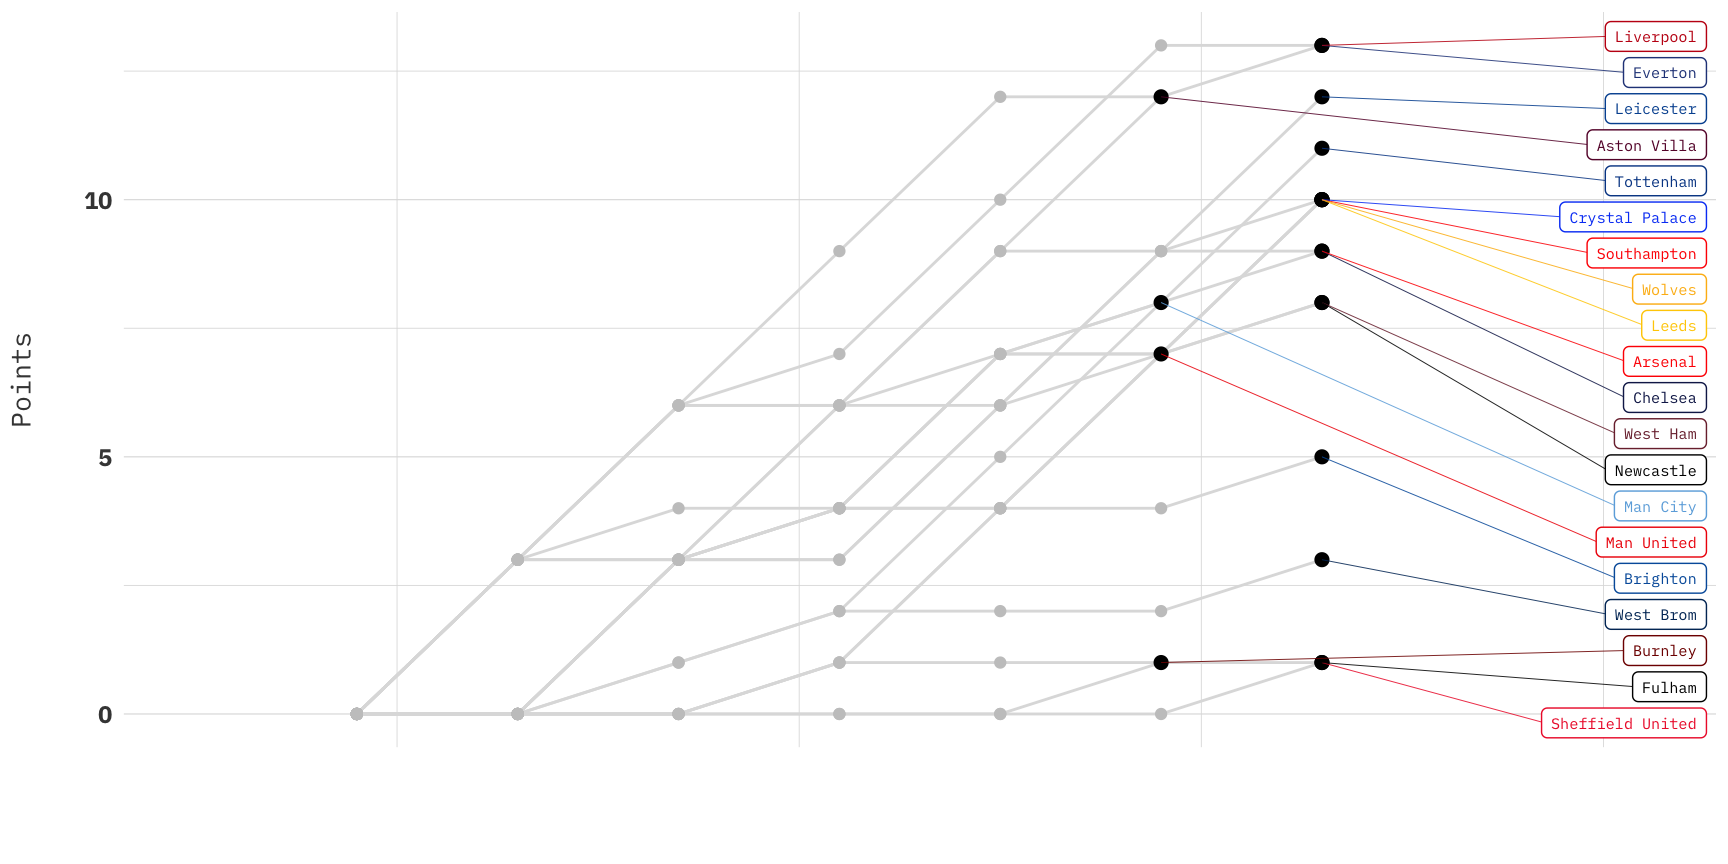
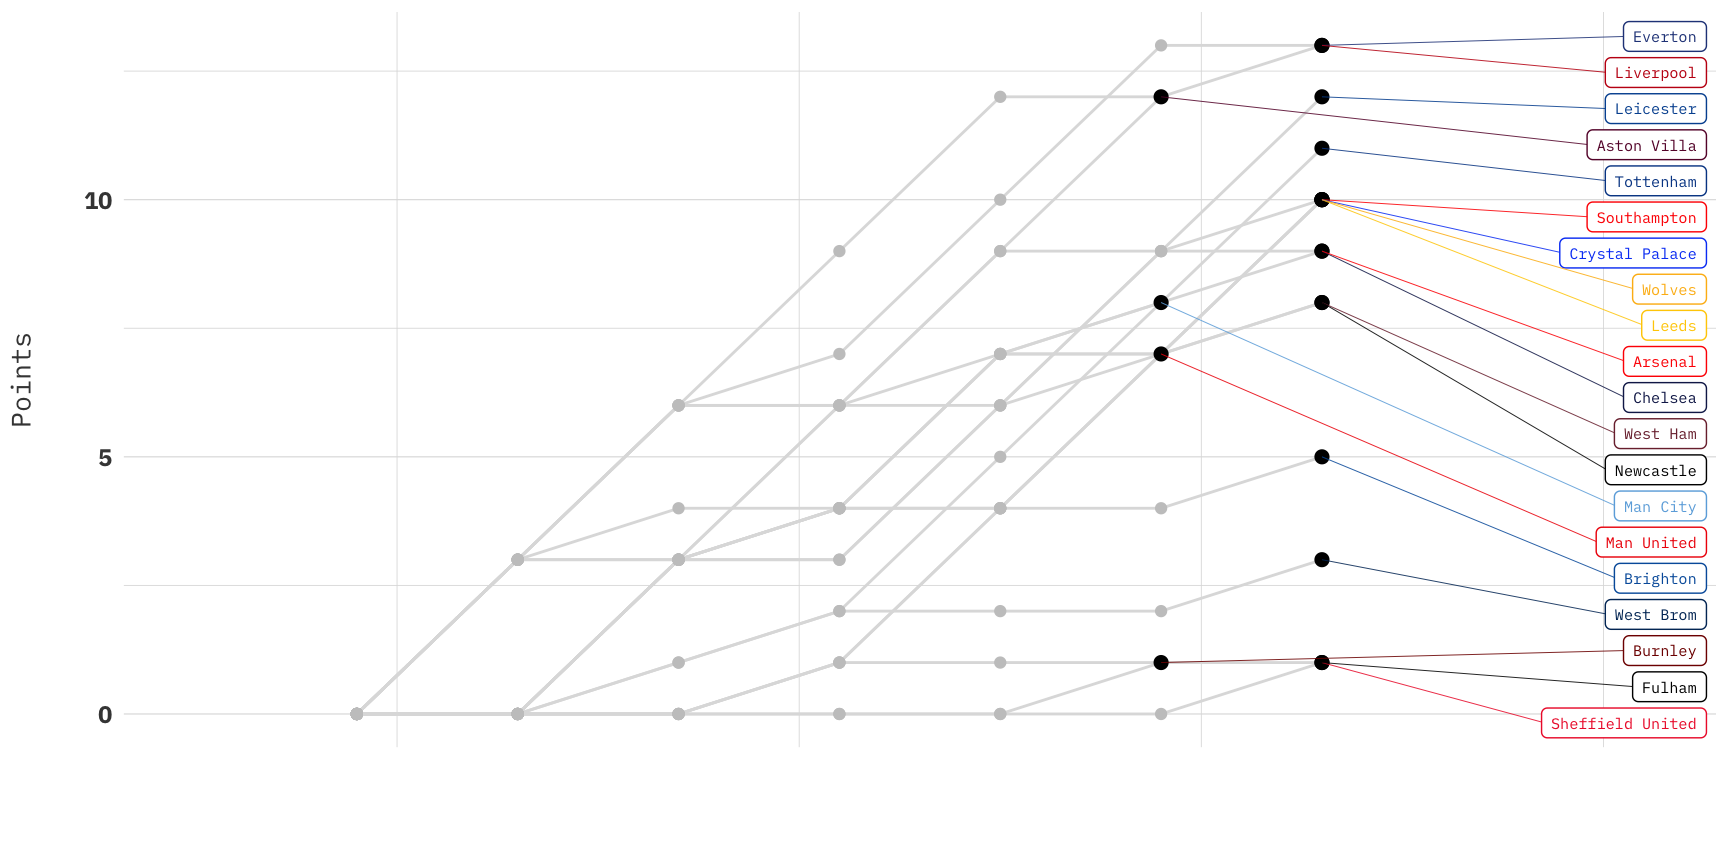
epl update

diff --git a/content/EPL.html b/content/EPL.html
@@ -1122,4 +1122,4 @@ This section is reserved for other charts and tables investigating the Premier L
 </div>
 <p><br></p>
 <div id="htmlwidget-1" style="width:100%;height:500px;" class="echarts4r html-widget"></div>
-<script type="application/json" data-for="htmlwidget-1">{"x":{"theme":"custom","tl":false,"draw":true,"renderer":"canvas","events":[{"data":{"type":"highlight","seriesName":["2020"]}}],"buttons":[],"opts":{"yAxis":[{"show":true}],"xAxis":[{"type":"value"}],"legend":{"data":["2015","2016","2017","2018","2019","2020"],"show":true,"type":"plain","right":0},"series":[{"data":[{"value":[1,22]},{"value":[2,56]},{"value":[3,84]},{"value":[4,114]},{"value":[5,133]},{"value":[6,155]},{"value":[7,189]},{"value":[8,236]},{"value":[9,263]},{"value":[10,274]},{"value":[11,297]},{"value":[12,326]},{"value":[13,356]},{"value":[14,396]},{"value":[15,421]},{"value":[16,452]},{"value":[17,497]},{"value":[18,532]},{"value":[19,562]},{"value":[20,586]},{"value":[21,609]},{"value":[22,631]},{"value":[23,655]},{"value":[24,678]},{"value":[25,719]},{"value":[26,751]},{"value":[27,783]},{"value":[28,807]},{"value":[29,838]},{"value":[30,854]},{"value":[31,884]},{"value":[32,914]},{"value":[33,934]},{"value":[34,956]},{"value":[35,984]},{"value":[36,1026]}],"yAxisIndex":0,"xAxisIndex":0,"name":"2015","type":"line","coordinateSystem":"cartesian2d","smooth":true},{"data":[{"value":[1,36]},{"value":[2,59]},{"value":[3,87]},{"value":[4,95]},{"value":[5,142]},{"value":[6,163]},{"value":[7,169]},{"value":[8,183]},{"value":[9,217]},{"value":[10,238]},{"value":[11,260]},{"value":[12,269]},{"value":[13,284]},{"value":[14,336]},{"value":[15,372]},{"value":[16,386]},{"value":[17,404]},{"value":[18,436]},{"value":[19,461]},{"value":[20,492]},{"value":[21,529]},{"value":[22,557]},{"value":[23,579]},{"value":[24,601]},{"value":[25,635]},{"value":[26,671]},{"value":[27,705]},{"value":[28,725]},{"value":[29,752]},{"value":[30,771]},{"value":[31,799]},{"value":[32,835]},{"value":[33,859]},{"value":[34,890]},{"value":[35,927]},{"value":[36,984]},{"value":[37,1007]},{"value":[38,1038]},{"value":[39,1064]}],"yAxisIndex":0,"xAxisIndex":0,"name":"2016","type":"line","coordinateSystem":"cartesian2d","smooth":true},{"data":[{"value":[1,31]},{"value":[2,59]},{"value":[3,86]},{"value":[4,87]},{"value":[5,141]},{"value":[6,170]},{"value":[7,173]},{"value":[8,199]},{"value":[9,221]},{"value":[10,253]},{"value":[11,268]},{"value":[12,297]},{"value":[13,326]},{"value":[14,353]},{"value":[15,378]},{"value":[16,399]},{"value":[17,420]},{"value":[18,463]},{"value":[19,488]},{"value":[20,510]},{"value":[21,526]},{"value":[22,536]},{"value":[23,560]},{"value":[24,581]},{"value":[25,611]},{"value":[26,631]},{"value":[27,636]},{"value":[28,656]},{"value":[29,687]},{"value":[30,717]},{"value":[31,735]},{"value":[32,746]},{"value":[33,772]},{"value":[34,791]},{"value":[35,854]},{"value":[36,879]},{"value":[37,925]},{"value":[38,967]},{"value":[39,1016]},{"value":[40,1018]}],"yAxisIndex":0,"xAxisIndex":0,"name":"2017","type":"line","coordinateSystem":"cartesian2d","smooth":true},{"data":[{"value":[1,29]},{"value":[2,49]},{"value":[3,82]},{"value":[4,136]},{"value":[5,169]},{"value":[6,193]},{"value":[7,245]},{"value":[8,278]},{"value":[9,297]},{"value":[10,319]},{"value":[11,351]},{"value":[12,379]},{"value":[13,409]},{"value":[14,442]},{"value":[15,467]},{"value":[16,503]},{"value":[17,528]},{"value":[18,561]},{"value":[19,589]},{"value":[20,619]},{"value":[21,648]},{"value":[22,677]},{"value":[23,699]},{"value":[24,728]},{"value":[25,750]},{"value":[26,779]},{"value":[27,813]},{"value":[28,833]},{"value":[29,857]},{"value":[30,890]},{"value":[31,947]},{"value":[32,979]},{"value":[33,1013]},{"value":[34,1072]}],"yAxisIndex":0,"xAxisIndex":0,"name":"2018","type":"line","coordinateSystem":"cartesian2d","smooth":true},{"data":[{"value":[1,25]},{"value":[2,52]},{"value":[3,92]},{"value":[4,105]},{"value":[5,132]},{"value":[6,141]},{"value":[7,156]},{"value":[8,186]},{"value":[9,206]},{"value":[10,225]},{"value":[11,255]},{"value":[12,281]},{"value":[13,342]},{"value":[14,393]},{"value":[15,432]},{"value":[16,475]},{"value":[17,502]},{"value":[18,527]},{"value":[19,557]},{"value":[20,588]},{"value":[21,620]},{"value":[22,651]},{"value":[23,680]},{"value":[24,705]},{"value":[25,723]},{"value":[26,761]},{"value":[27,787]},{"value":[28,815]},{"value":[29,848]},{"value":[30,879]},{"value":[31,944]},{"value":[32,963]},{"value":[33,981]},{"value":[34,1034]}],"yAxisIndex":0,"xAxisIndex":0,"name":"2019","type":"line","coordinateSystem":"cartesian2d","smooth":true},{"data":[{"value":[1,23]},{"value":[2,67]},{"value":[3,103]},{"value":[4,144]},{"value":[5,172]},{"value":[6,191]}],"yAxisIndex":0,"xAxisIndex":0,"name":"2020","type":"line","coordinateSystem":"cartesian2d","smooth":true,"markPoint":{"data":[{"name":"Max","type":"max"}]}}],"title":[{"text":"Goals by Week of the Premier League"}],"tooltip":{"trigger":"axis"},"dataZoom":[[]],"toolbox":{"feature":{"dataZoom":[]}},"textStyle":{"fontFamily":"IBM Plex Mono"}},"dispose":true,"theme2":true,"customTheme":"{\"color\":[\"#f7dc05\",\n            \"#3d98d3\",\n            \"#ec0b88\",\n            \"#5e35b1\",\n            \"#f9791e\",\n            \"#3dd378\",\n            \"#787464\",\n            \"#c6c6c6\",\n            \"#baa9d0\",\n            \"#009688\"]}","theme_name":"custom"},"evals":[],"jsHooks":[]}</script>
+<script type="application/json" data-for="htmlwidget-1">{"x":{"theme":"custom","tl":false,"draw":true,"renderer":"canvas","events":[{"data":{"type":"highlight","seriesName":["2020"]}},{"data":{"type":"dataZoom","dataZoomIndex":0,"start":0,"end":50}}],"buttons":[],"opts":{"yAxis":[{"show":true}],"xAxis":[{"type":"value"}],"legend":{"data":["2015","2016","2017","2018","2019","2020"],"show":true,"type":"plain","right":0},"series":[{"data":[{"value":[1,22]},{"value":[2,56]},{"value":[3,84]},{"value":[4,114]},{"value":[5,133]},{"value":[6,155]},{"value":[7,189]},{"value":[8,236]},{"value":[9,263]},{"value":[10,274]},{"value":[11,297]},{"value":[12,326]},{"value":[13,356]},{"value":[14,396]},{"value":[15,421]},{"value":[16,452]},{"value":[17,497]},{"value":[18,532]},{"value":[19,562]},{"value":[20,586]},{"value":[21,609]},{"value":[22,631]},{"value":[23,655]},{"value":[24,678]},{"value":[25,719]},{"value":[26,751]},{"value":[27,783]},{"value":[28,807]},{"value":[29,838]},{"value":[30,854]},{"value":[31,884]},{"value":[32,914]},{"value":[33,934]},{"value":[34,956]},{"value":[35,984]},{"value":[36,1026]}],"yAxisIndex":0,"xAxisIndex":0,"name":"2015","type":"line","coordinateSystem":"cartesian2d","smooth":true},{"data":[{"value":[1,36]},{"value":[2,59]},{"value":[3,87]},{"value":[4,95]},{"value":[5,142]},{"value":[6,163]},{"value":[7,169]},{"value":[8,183]},{"value":[9,217]},{"value":[10,238]},{"value":[11,260]},{"value":[12,269]},{"value":[13,284]},{"value":[14,336]},{"value":[15,372]},{"value":[16,386]},{"value":[17,404]},{"value":[18,436]},{"value":[19,461]},{"value":[20,492]},{"value":[21,529]},{"value":[22,557]},{"value":[23,579]},{"value":[24,601]},{"value":[25,635]},{"value":[26,671]},{"value":[27,705]},{"value":[28,725]},{"value":[29,752]},{"value":[30,771]},{"value":[31,799]},{"value":[32,835]},{"value":[33,859]},{"value":[34,890]},{"value":[35,927]},{"value":[36,984]},{"value":[37,1007]},{"value":[38,1038]},{"value":[39,1064]}],"yAxisIndex":0,"xAxisIndex":0,"name":"2016","type":"line","coordinateSystem":"cartesian2d","smooth":true},{"data":[{"value":[1,31]},{"value":[2,59]},{"value":[3,86]},{"value":[4,87]},{"value":[5,141]},{"value":[6,170]},{"value":[7,173]},{"value":[8,199]},{"value":[9,221]},{"value":[10,253]},{"value":[11,268]},{"value":[12,297]},{"value":[13,326]},{"value":[14,353]},{"value":[15,378]},{"value":[16,399]},{"value":[17,420]},{"value":[18,463]},{"value":[19,488]},{"value":[20,510]},{"value":[21,526]},{"value":[22,536]},{"value":[23,560]},{"value":[24,581]},{"value":[25,611]},{"value":[26,631]},{"value":[27,636]},{"value":[28,656]},{"value":[29,687]},{"value":[30,717]},{"value":[31,735]},{"value":[32,746]},{"value":[33,772]},{"value":[34,791]},{"value":[35,854]},{"value":[36,879]},{"value":[37,925]},{"value":[38,967]},{"value":[39,1016]},{"value":[40,1018]}],"yAxisIndex":0,"xAxisIndex":0,"name":"2017","type":"line","coordinateSystem":"cartesian2d","smooth":true},{"data":[{"value":[1,29]},{"value":[2,49]},{"value":[3,82]},{"value":[4,136]},{"value":[5,169]},{"value":[6,193]},{"value":[7,245]},{"value":[8,278]},{"value":[9,297]},{"value":[10,319]},{"value":[11,351]},{"value":[12,379]},{"value":[13,409]},{"value":[14,442]},{"value":[15,467]},{"value":[16,503]},{"value":[17,528]},{"value":[18,561]},{"value":[19,589]},{"value":[20,619]},{"value":[21,648]},{"value":[22,677]},{"value":[23,699]},{"value":[24,728]},{"value":[25,750]},{"value":[26,779]},{"value":[27,813]},{"value":[28,833]},{"value":[29,857]},{"value":[30,890]},{"value":[31,947]},{"value":[32,979]},{"value":[33,1013]},{"value":[34,1072]}],"yAxisIndex":0,"xAxisIndex":0,"name":"2018","type":"line","coordinateSystem":"cartesian2d","smooth":true},{"data":[{"value":[1,25]},{"value":[2,52]},{"value":[3,92]},{"value":[4,105]},{"value":[5,132]},{"value":[6,141]},{"value":[7,156]},{"value":[8,186]},{"value":[9,206]},{"value":[10,225]},{"value":[11,255]},{"value":[12,281]},{"value":[13,342]},{"value":[14,393]},{"value":[15,432]},{"value":[16,475]},{"value":[17,502]},{"value":[18,527]},{"value":[19,557]},{"value":[20,588]},{"value":[21,620]},{"value":[22,651]},{"value":[23,680]},{"value":[24,705]},{"value":[25,723]},{"value":[26,761]},{"value":[27,787]},{"value":[28,815]},{"value":[29,848]},{"value":[30,879]},{"value":[31,944]},{"value":[32,963]},{"value":[33,981]},{"value":[34,1034]}],"yAxisIndex":0,"xAxisIndex":0,"name":"2019","type":"line","coordinateSystem":"cartesian2d","smooth":true},{"data":[{"value":[1,23]},{"value":[2,67]},{"value":[3,103]},{"value":[4,144]},{"value":[5,172]},{"value":[6,191]}],"yAxisIndex":0,"xAxisIndex":0,"name":"2020","type":"line","coordinateSystem":"cartesian2d","smooth":true,"markPoint":{"data":[{"name":"Max","type":"max"}]}}],"title":[{"text":"Goals by Week of the Premier League"}],"tooltip":{"trigger":"axis"},"dataZoom":[[]],"toolbox":{"feature":{"dataZoom":[]}},"textStyle":{"fontFamily":"IBM Plex Mono"}},"dispose":true,"theme2":true,"customTheme":"{\"color\":[\"#f7dc05\",\n            \"#3d98d3\",\n            \"#ec0b88\",\n            \"#5e35b1\",\n            \"#f9791e\",\n            \"#3dd378\",\n            \"#787464\",\n            \"#c6c6c6\",\n            \"#baa9d0\",\n            \"#009688\"]}","theme_name":"custom"},"evals":[],"jsHooks":[]}</script>
